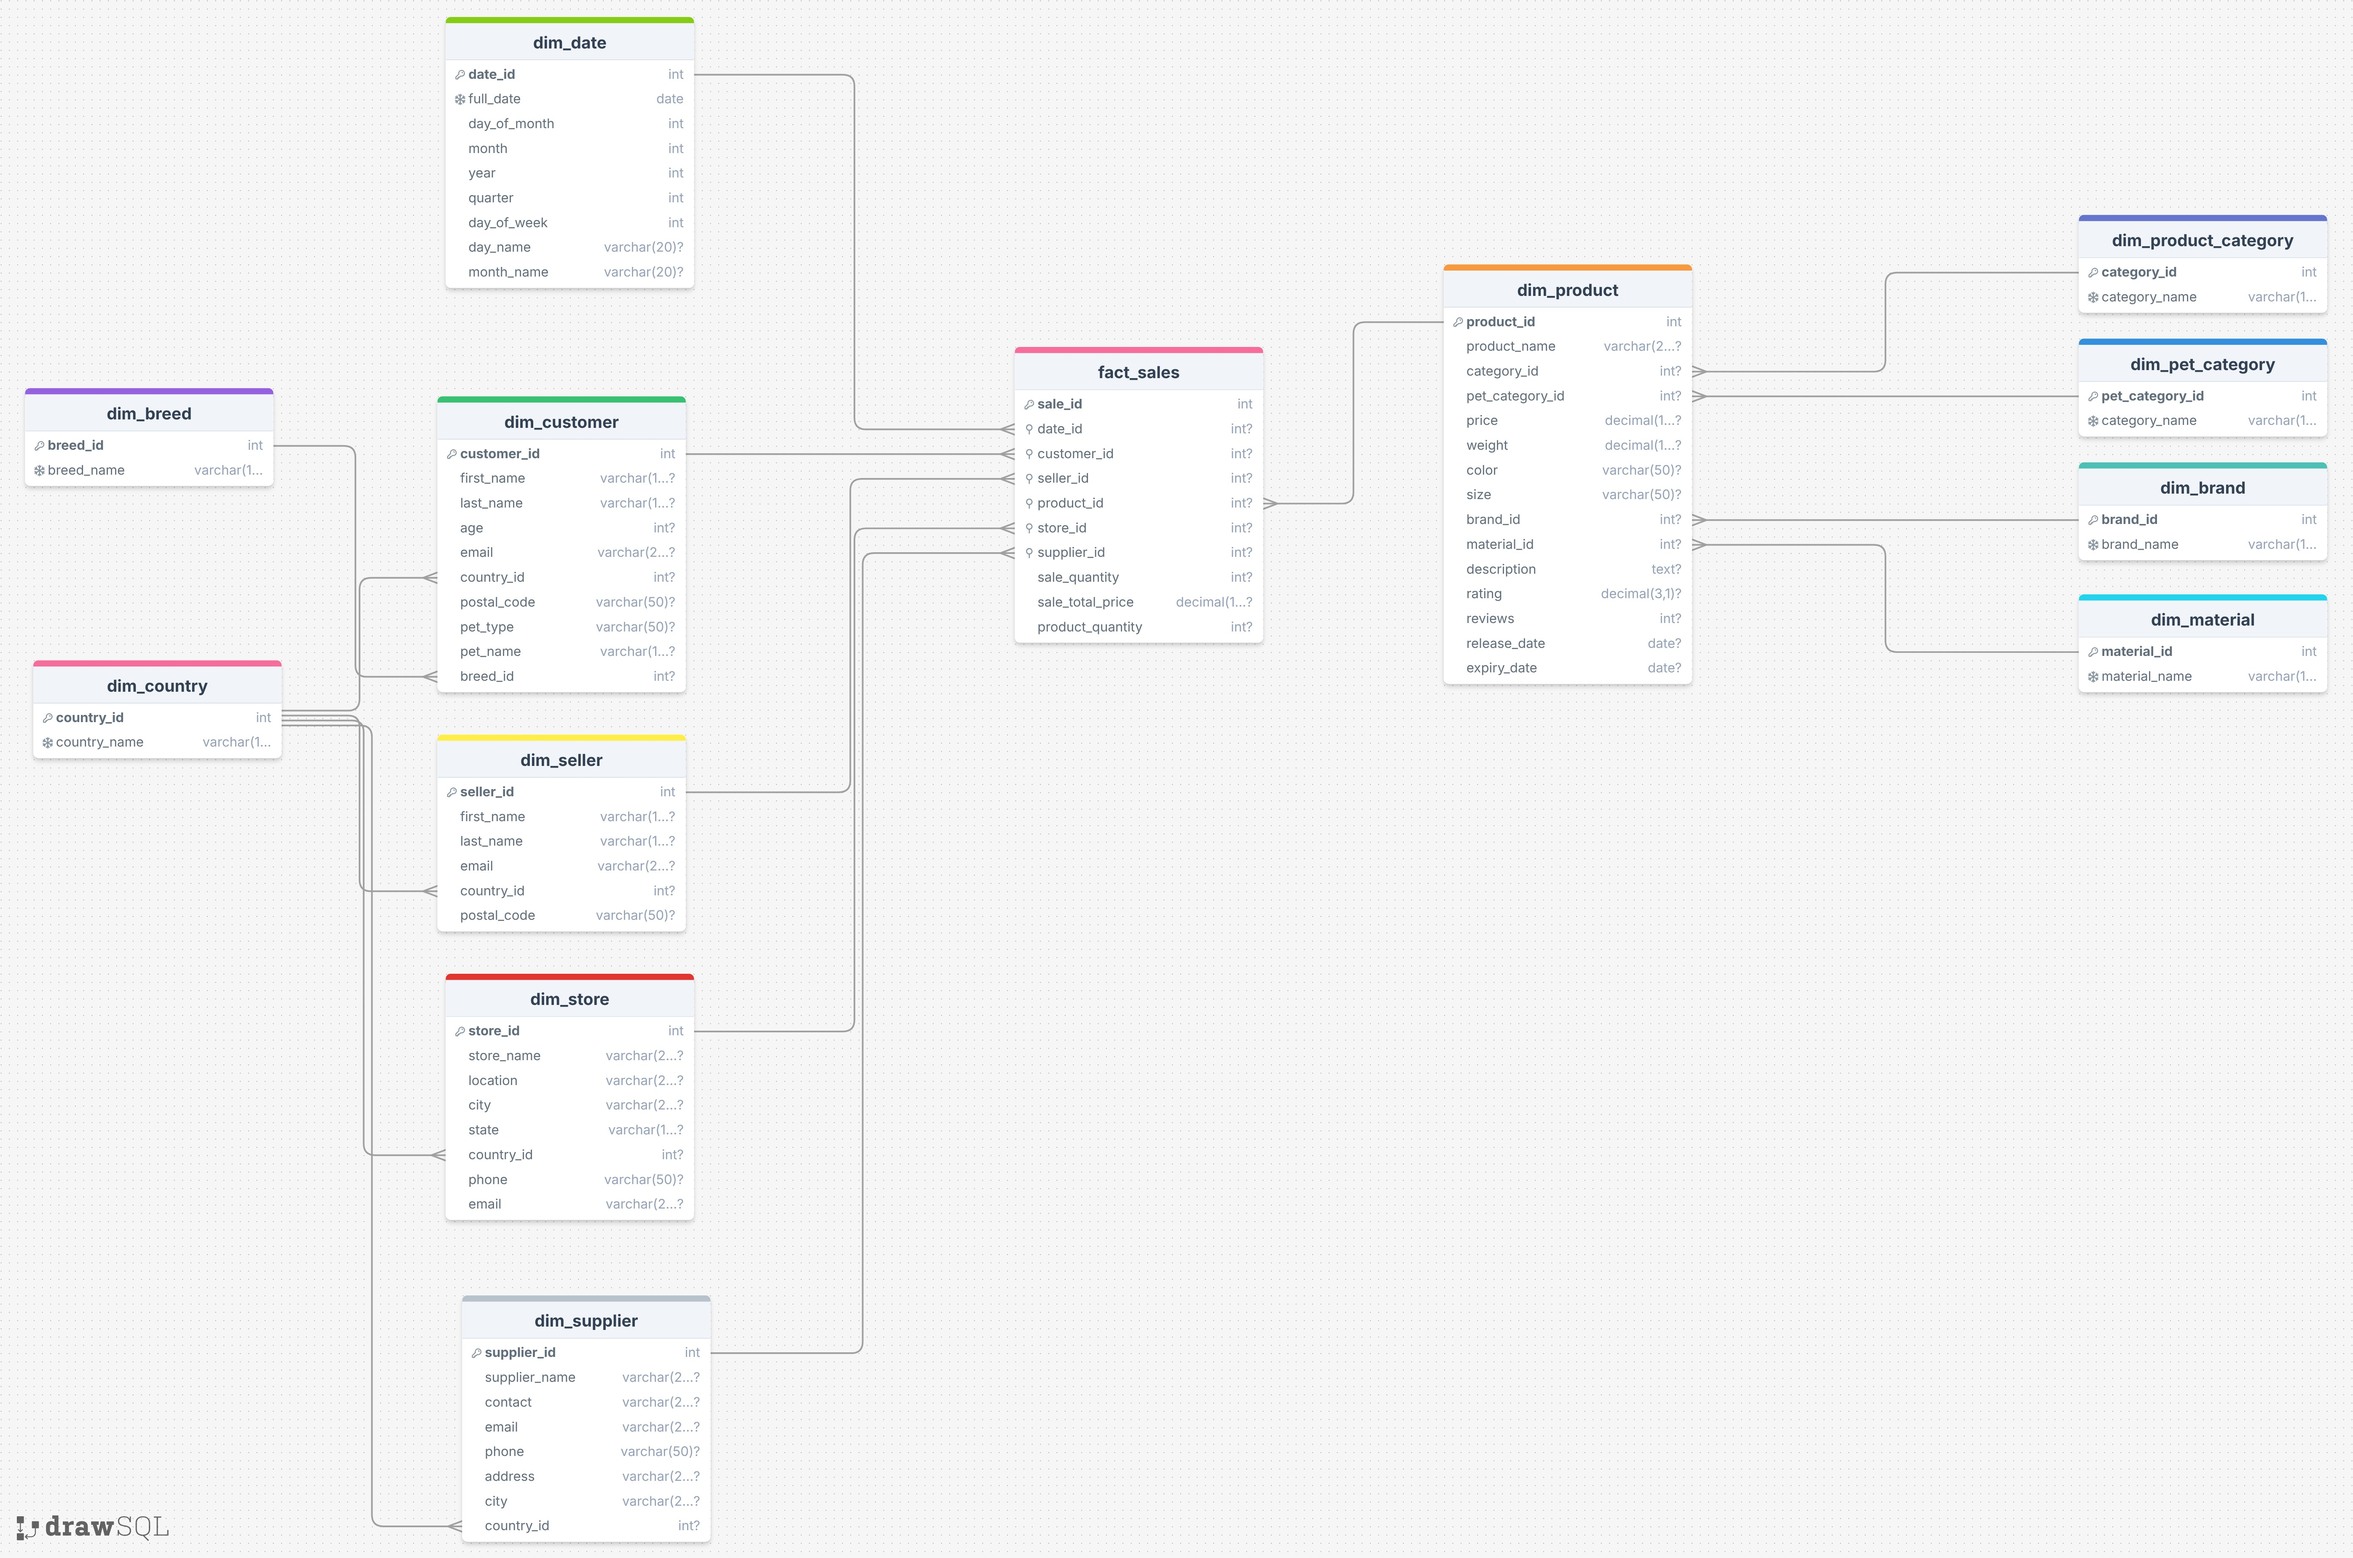
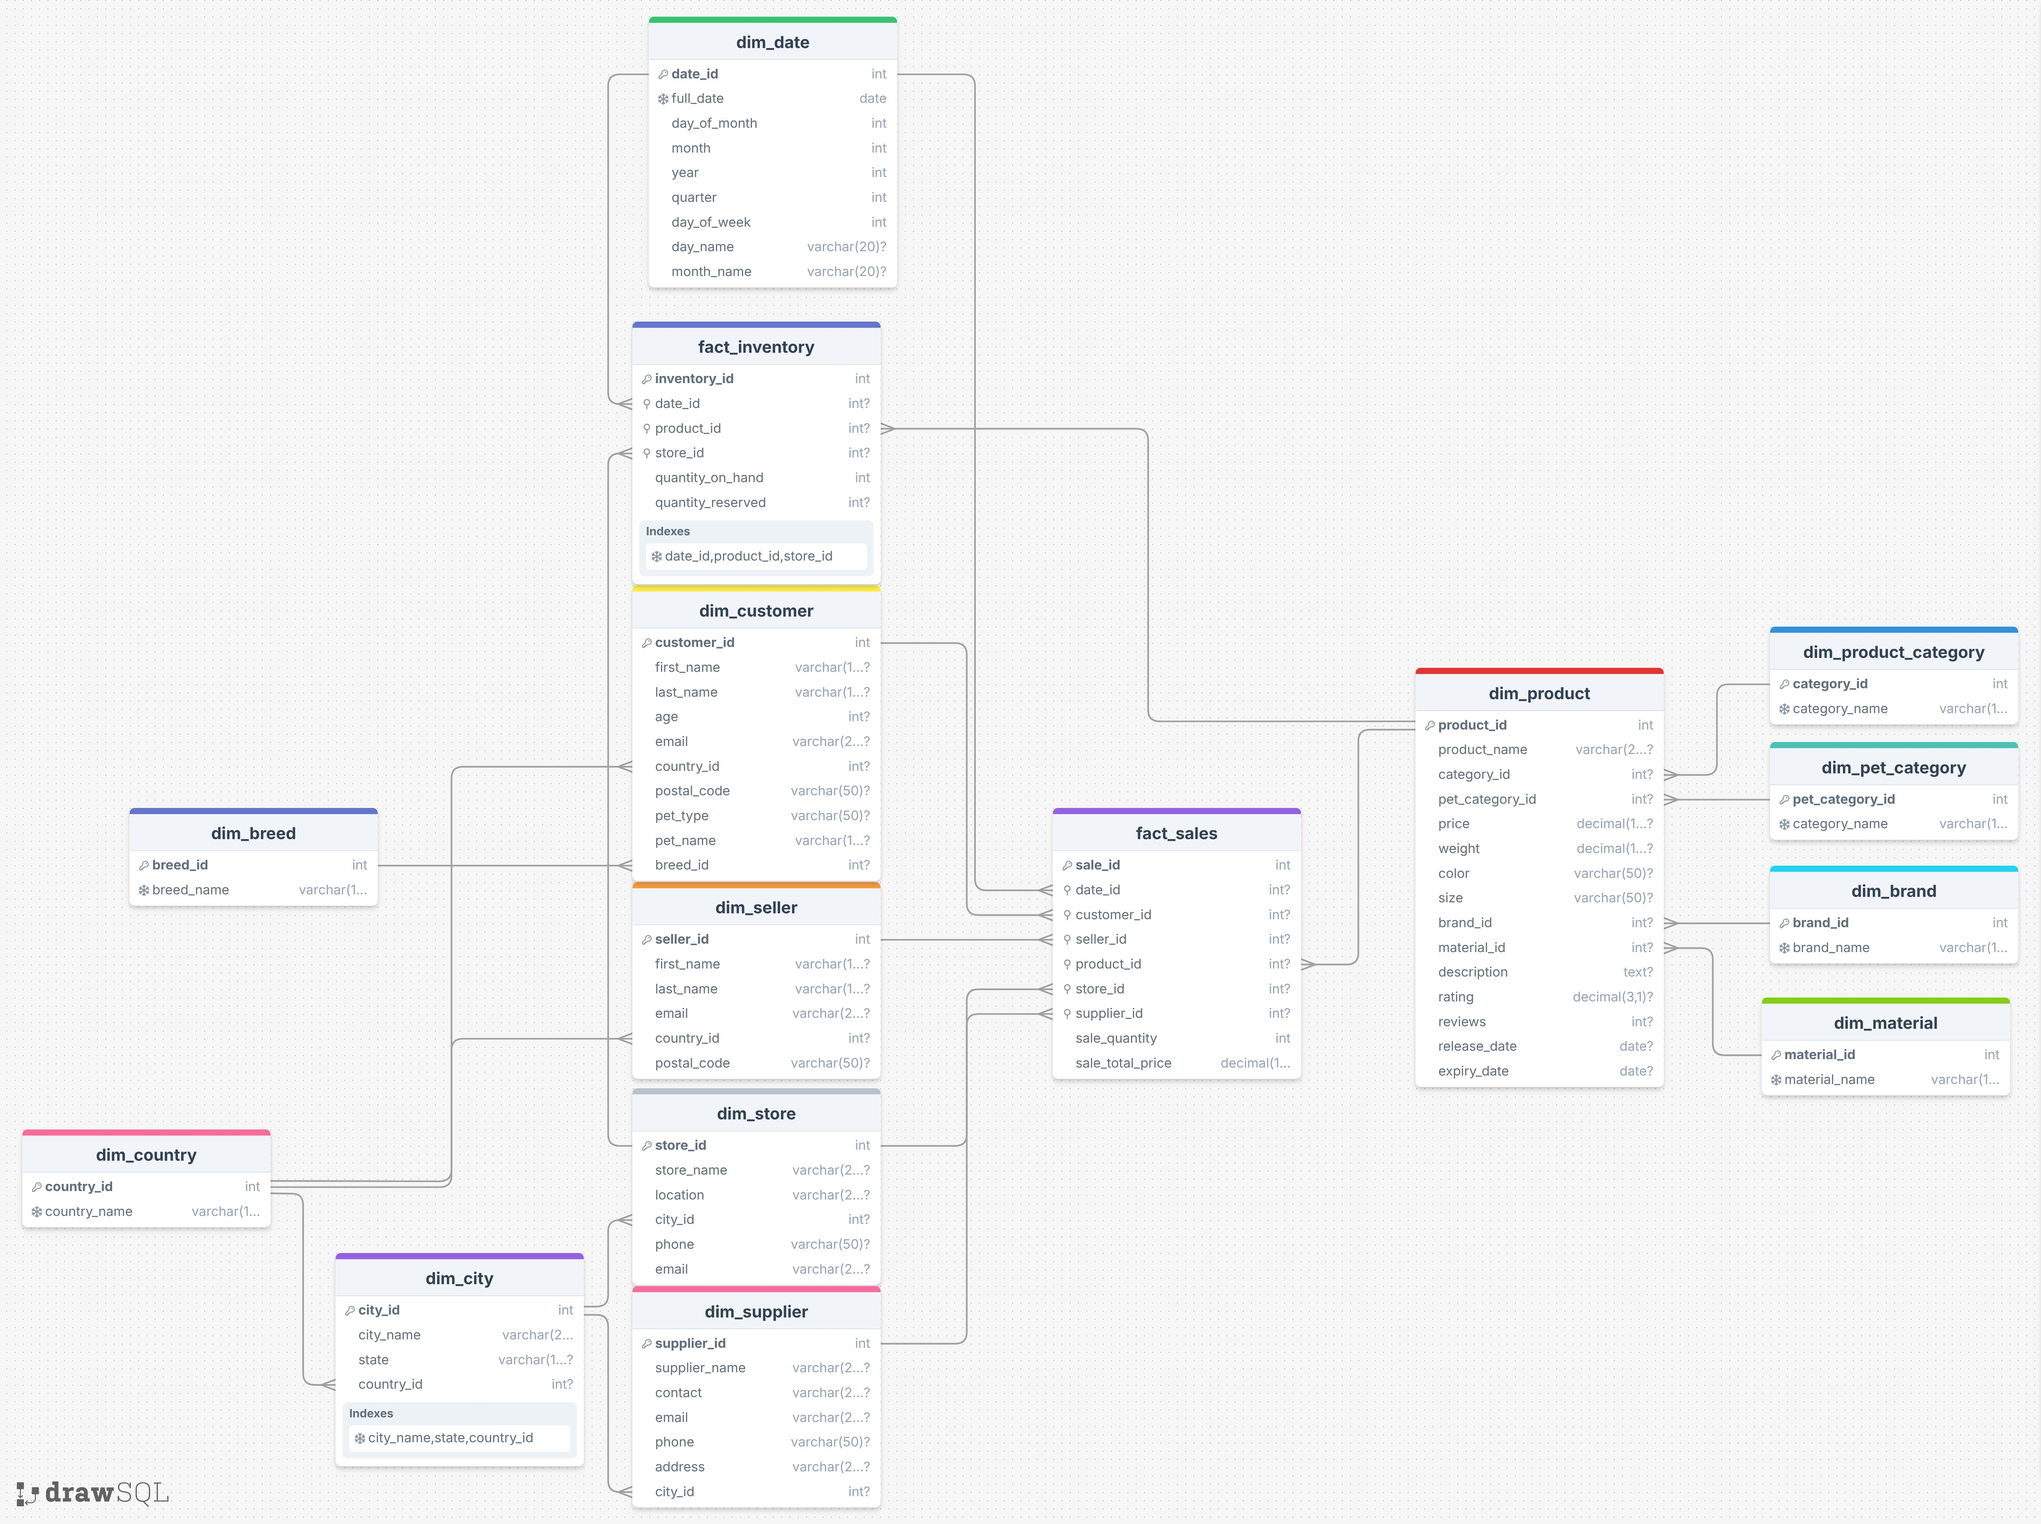
feat(из фактов убрал product_quantity и убрал его в отдельную таблицу с остатками, сделал отдельную таблицу с городами)

diff --git a/README.md b/README.md
@@ -73,17 +73,23 @@ PGPASSWORD=postgres psql -h localhost -p 5432 -U postgres -d petshop
 ```psql
 SELECT 'mock_data' AS table_name, COUNT(*) AS rows FROM mock_data UNION ALL
 SELECT 'dim_customer', COUNT(*) FROM dim_customer UNION ALL
+SELECT 'dim_seller', COUNT(*) FROM dim_seller UNION ALL
 SELECT 'dim_product', COUNT(*) FROM dim_product UNION ALL
+SELECT 'dim_store', COUNT(*) FROM dim_store UNION ALL
+SELECT 'dim_supplier', COUNT(*) FROM dim_supplier UNION ALL
+SELECT 'dim_city', COUNT(*) FROM dim_city UNION ALL
+SELECT 'dim_country', COUNT(*) FROM dim_country UNION ALL
 SELECT 'fact_sales', COUNT(*) FROM fact_sales;
 ```
 
 4.2. 
 ```psql
-SELECT c.first_name, p.product_name, d.full_date, f.sale_total_price
+SELECT c.first_name, p.product_name, d.full_date,
+       f.sale_quantity, f.sale_total_price
 FROM fact_sales f
 JOIN dim_customer c ON f.customer_id = c.customer_id
-JOIN dim_product p ON f.product_id = p.product_id
-JOIN dim_date d ON f.date_id = d.date_id
+JOIN dim_product  p ON f.product_id  = p.product_id
+JOIN dim_date     d ON f.date_id     = d.date_id
 LIMIT 5;
 ```
 
